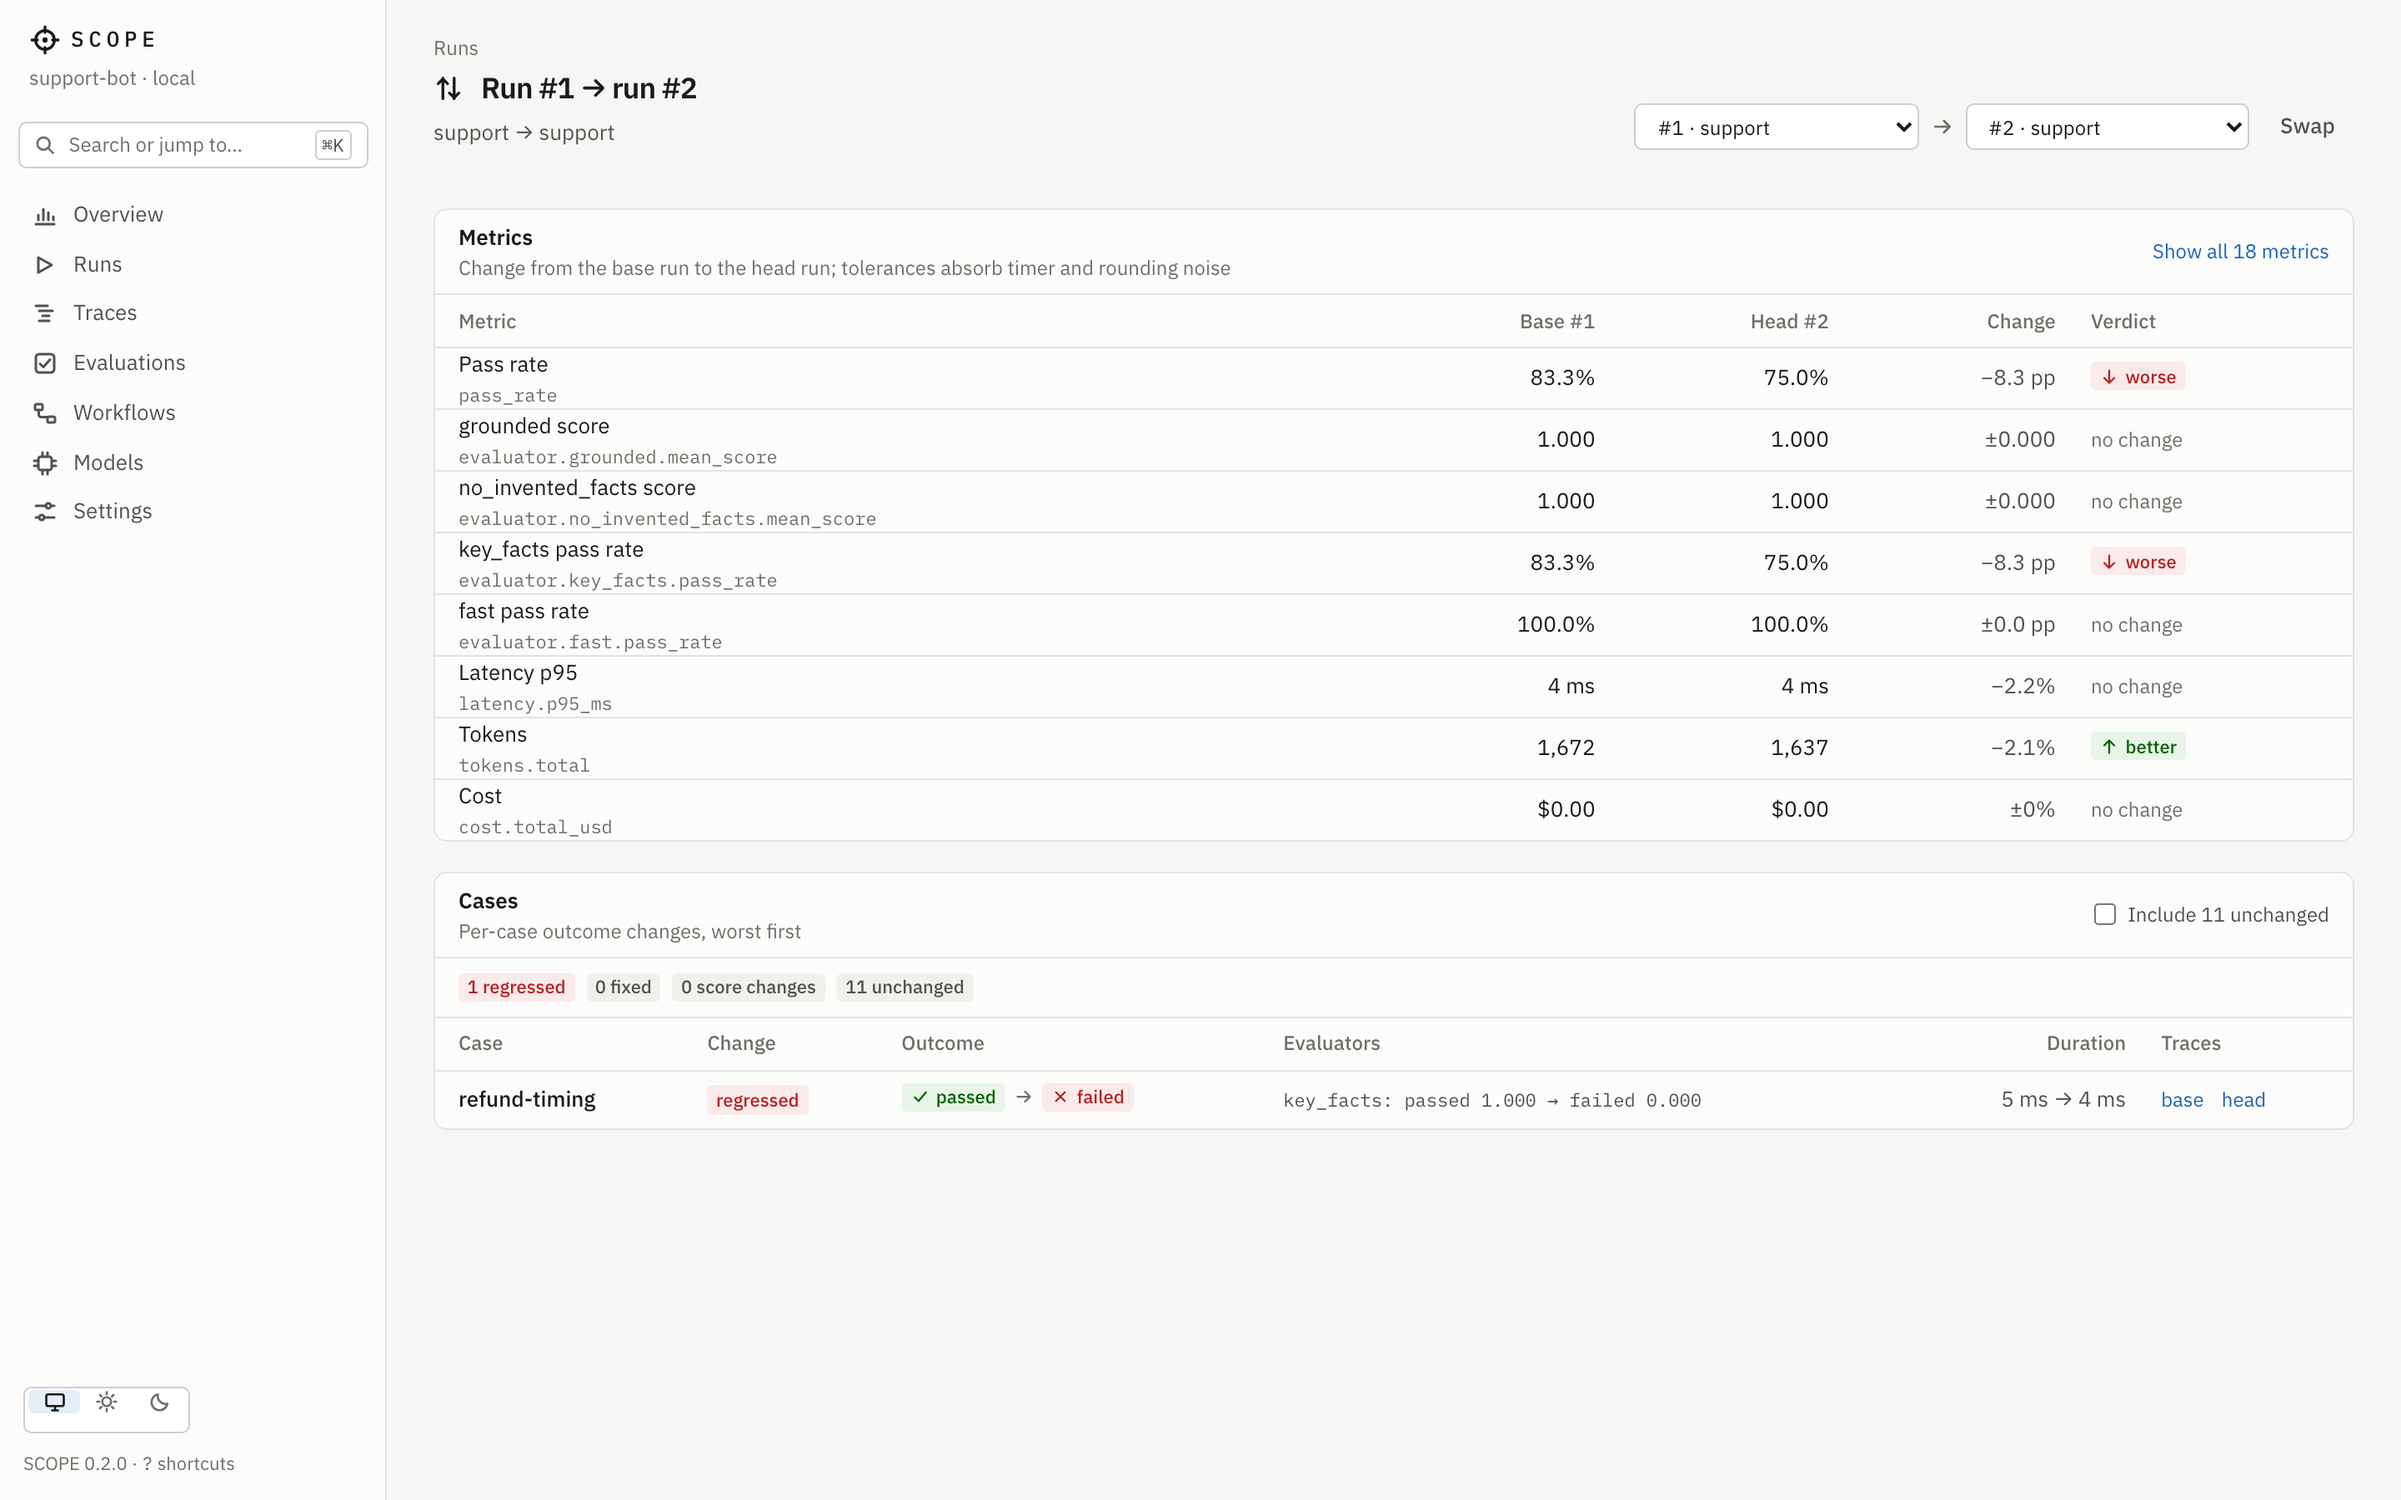
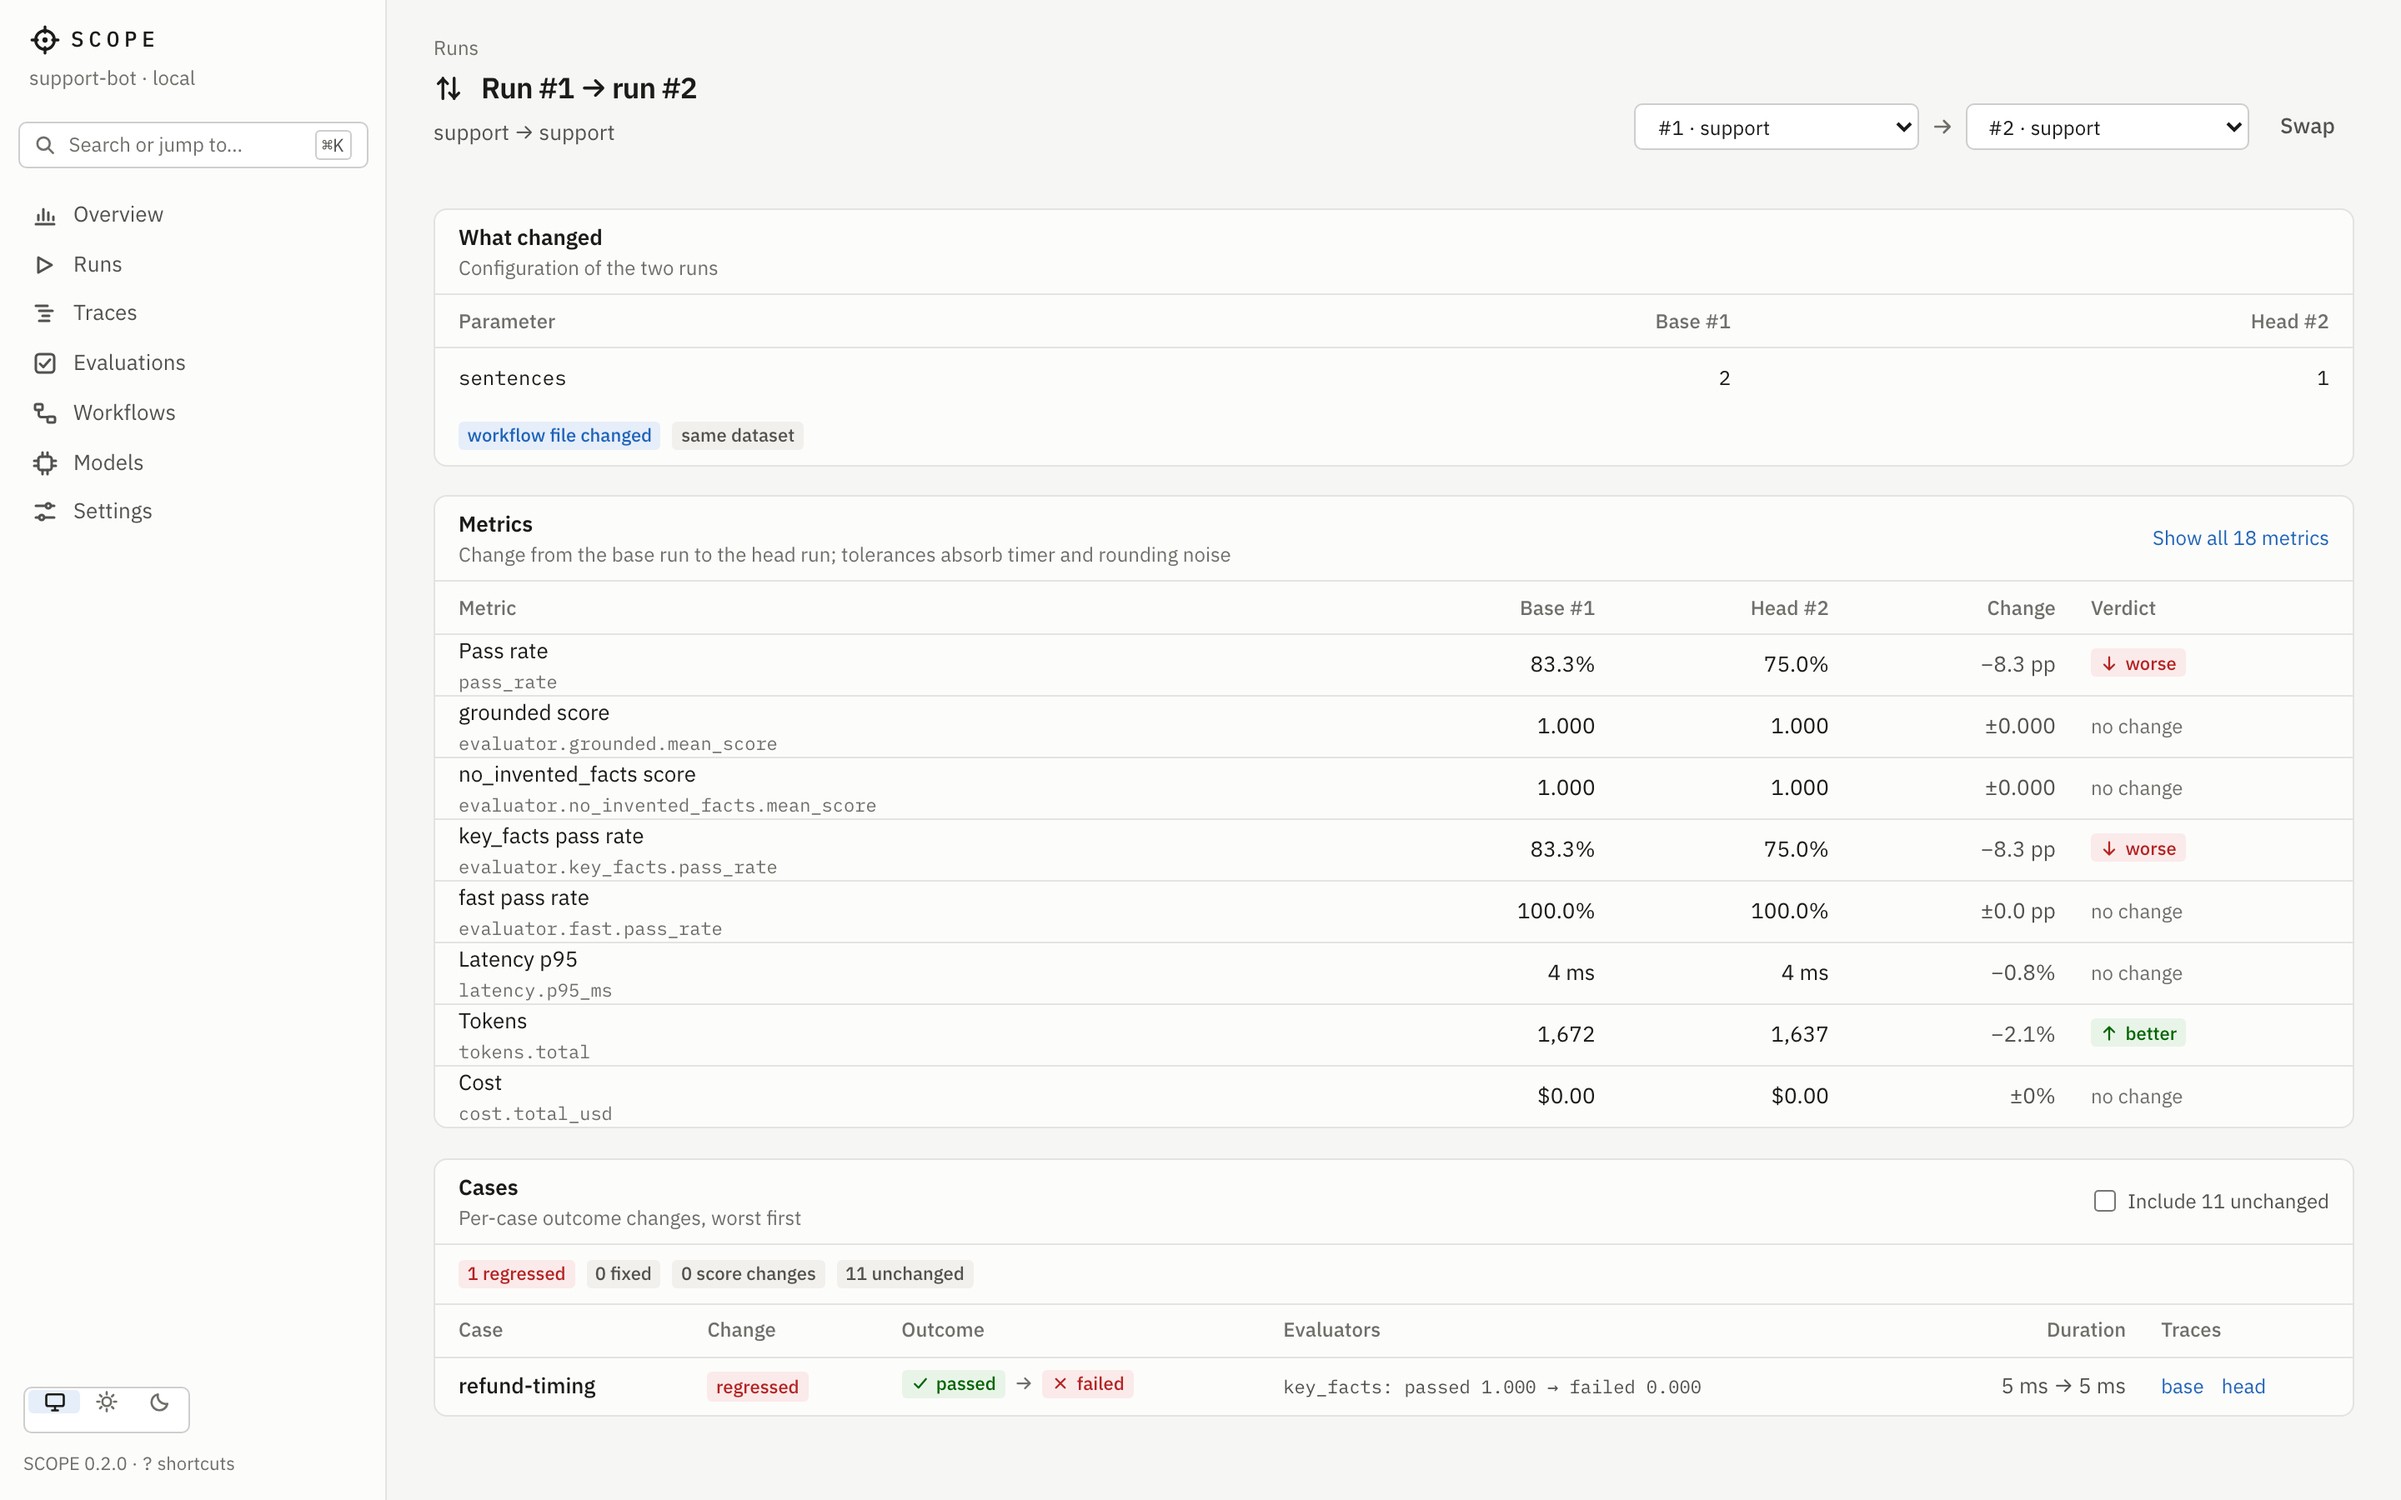
docs: regenerate screenshots with configuration changes
The Compare page shows what changed between the two runs' configuration,
and the run page's baseline panel what changed since the baseline.

diff --git a/README.md b/README.md
@@ -186,7 +186,7 @@ intentionally changes quality shows the new numbers in its diff. On GitLab, Jenk
 Azure Pipelines, `scope run --junit-file` reports every case as a test result. Guide:
 [CI and regressions](docs/guides/ci.md).
 
-![Comparing two runs: direction-aware metric deltas and the cases that changed](docs/images/compare.png)
+![Comparing two runs: the parameter that changed, direction-aware metric deltas, and the case that regressed](docs/images/compare.png)
 
 ## Trace your application
 
